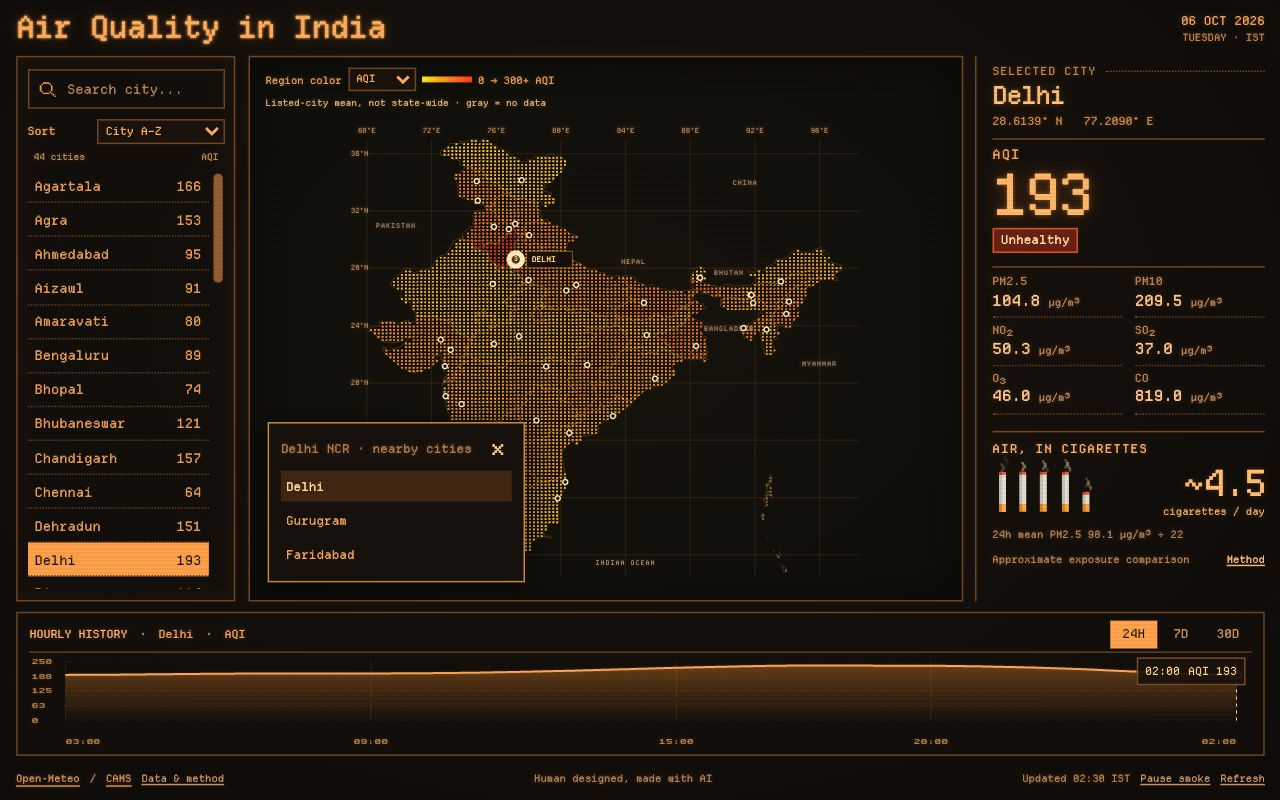
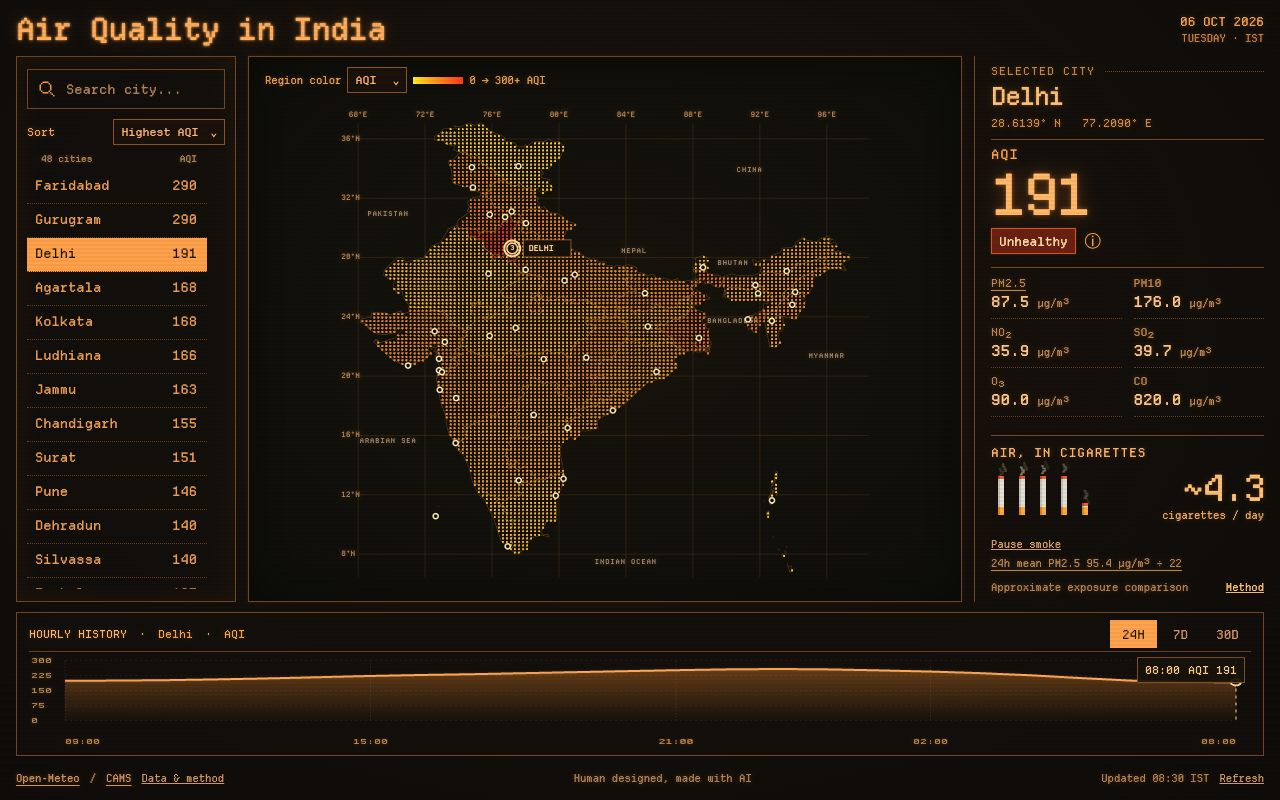
Refine controls, loading animation and union territory coverage

diff --git a/src/App.jsx b/src/App.jsx
@@ -14,6 +14,30 @@ const heatColor = (value, metric) => {
   return `hsl(${56 - 56*t} 100% 55%)`;
 };
 
+function ThemeSelect({ label, value, options, onChange }) {
+  const ref = useRef(null);
+  useEffect(() => {
+    const close = event => { if (!ref.current?.contains(event.target)) ref.current?.removeAttribute('open'); };
+    document.addEventListener('pointerdown', close);
+    return () => document.removeEventListener('pointerdown', close);
+  }, []);
+  return <details ref={ref} className="theme-select" onKeyDown={event => { if(event.key === 'Escape') { ref.current.removeAttribute('open'); ref.current.querySelector('summary').focus(); } }}>
+    <summary aria-label={label + ': ' + options.find(option=>option[0]===value)?.[1]}>{options.find(option=>option[0]===value)?.[1]}<span aria-hidden="true">⌄</span></summary>
+    <div className="theme-options" role="group" aria-label={label}>{options.map(([key,text])=><button key={key} type="button" aria-pressed={value===key} onClick={()=>{onChange(key);ref.current.removeAttribute('open');ref.current.querySelector('summary').focus();}}>{text}</button>)}</div>
+  </details>;
+}
+
+function InitialLoader() {
+  return <div className="initial-loader" role="status" aria-label="Loading air quality"><span className="sr-only">Loading air quality…</span>
+    <svg viewBox="0 0 32 120" aria-hidden="true" shapeRendering="crispEdges">
+      <defs><clipPath id="loader-paper"><rect className="loading-paper" x="10" y="38" width="12" height="64"/></clipPath></defs>
+      <g className="loading-burn"><path className="pixel-smoke" d="M14 -9h4v-5h-4v-5h-4v-5h4v-5h4v-5h-4" fill="none" stroke="#c9ba96" strokeWidth="3"/><rect x="10" width="12" height="4" fill="#ff6e35"/></g>
+      <g clipPath="url(#loader-paper)"><rect x="10" y="38" width="12" height="64" fill="#e5dfc8"/><rect x="10" y="38" width="4" height="64" fill="#bdbda9"/></g>
+      <rect x="10" y="102" width="12" height="16" fill="#ffab45"/><rect x="10" y="102" width="4" height="16" fill="#dc8632"/>
+    </svg>
+  </div>;
+}
+
 function CityMap({ selected, onSelect, summary, metric, onMetric }) {
   const [ncrOpen,setNcrOpen] = useState(false);
   const ncrTrigger = useRef(null), firstNcrChoice = useRef(null);
@@ -42,7 +66,7 @@ function CityMap({ selected, onSelect, summary, metric, onMetric }) {
   });
   const regionMean = id => { const values=regional.get(id); return values?.length ? values.reduce((a,b)=>a+b,0)/values.length : undefined; };
   return <section className="map-panel" aria-label="Map of Indian cities">
-    <div className="map-legend"><label>Region color <select aria-label="Map pollutant" value={metric} onChange={event=>onMetric(event.target.value)}><option value="us_aqi">AQI</option><option value="pm2_5">PM2.5</option></select></label><span className="heat-scale"/><span>{metric==='us_aqi'?'0 → 300+ AQI':'0 → 100+ µg/m³'}</span><small>Listed-city mean, not state-wide · gray = no data</small></div>
+    <div className="map-legend"><div className="metric-control"><span>Region color</span><ThemeSelect label="Map pollutant" value={metric} onChange={onMetric} options={[["us_aqi","AQI"],["pm2_5","PM2.5"]]}/></div><span className="heat-scale"/><span>{metric==='us_aqi'?'0 → 300+ AQI':'0 → 100+ µg/m³'}</span></div>
     <svg className="india-map" viewBox="-12 -14 824 748" role="group" aria-label={'Dot map of India with ' + selected.name + ' selected'}>
       <g className="geo-grid" aria-hidden="true">
         {[68,72,76,80,84,88,92,96].map(lon => { const p=project({lon,lat:38}); return <g key={lon}><line x1={p.x} x2={p.x} y1="22" y2="710"/><text x={p.x} y="12" textAnchor="middle">{lon}°E</text></g>; })}
@@ -120,7 +144,7 @@ function MethodDialog({ onClose, cigarette, returnFocusRef }) {
     {cigarette && <p className="method-window">Window: {formatIST(cigarette.start, {day:'2-digit',month:'short',hour:'2-digit',minute:'2-digit',hour12:false})} – {formatIST(cigarette.end, {day:'2-digit',month:'short',hour:'2-digit',minute:'2-digit',hour12:false})} IST.</p>}
     <a href="https://berkeleyearth.org/air-pollution-and-cigarette-equivalence/" target="_blank" rel="noreferrer">Read Berkeley Earth’s method ↗</a>
     <hr/><p className="source-note">Air data: <a href="https://open-meteo.com/" target="_blank" rel="noreferrer">Open-Meteo</a> / <a href="https://atmosphere.copernicus.eu/" target="_blank" rel="noreferrer">Copernicus CAMS</a>, approximately 45 km model resolution for India. US AQI scale; this is not official CPCB station AQI.</p>
-    <p className="source-note">Regional color is the mean of available listed-city values within each state, not an area-weighted state estimate. Unavailable regions are muted. City dots show every listed location; choose a city from the sidebar.</p><p className="source-note">Map: <a href="https://www.geoboundaries.org/" target="_blank" rel="noreferrer">geoBoundaries</a> / DataMeet / Election Commission of India, CC BY 2.5 IN. Boundaries follow that dataset.</p>
+    <p className="source-note">Values are fetched directly in your browser on opening the site, choosing a city or refreshing. City details are cached for 15 minutes in this tab. GitHub Actions deploys the site; it does not collect air data.</p><p className="source-note">CAMS combines satellite observations with atmospheric simulations to estimate air quality at each location. These are observation-informed model results, rather than direct readings from a local CPCB monitor. <a href="https://atmosphere.copernicus.eu/global-production-system" target="_blank" rel="noreferrer">How CAMS works ↗</a></p><p className="source-note">Regional color is the mean of available listed-city values within each state, not an area-weighted state estimate. Unavailable regions are muted. City dots show every listed location; choose a city from the sidebar.</p><p className="source-note">Map: <a href="https://www.geoboundaries.org/" target="_blank" rel="noreferrer">geoBoundaries</a> / DataMeet / Election Commission of India, CC BY 2.5 IN. Boundaries follow that dataset.</p>
   </dialog>;
 }
 
@@ -175,6 +199,7 @@ export default function App() {
   const [search, setSearch] = useState('');
   const [sort, setSort] = useState('name');
   const [metric, setMetric] = useState('us_aqi');
+  const [initialLoading, setInitialLoading] = useState(true);
   const [summary, setSummary] = useState(null);
   const [summaryError, setSummaryError] = useState('');
   const [detail, setDetail] = useState(null);
@@ -215,6 +240,10 @@ export default function App() {
     return () => controller.abort();
   }, [selected.id, revision]);
 
+  useEffect(() => {
+    if ((summary || summaryError) && (detail || detailError)) setInitialLoading(false);
+  }, [summary, summaryError, detail, detailError]);
+
   const current = detail?.current;
   const selectedSummary = summary?.[selected.id]?.current;
   const aqi = current?.us_aqi ?? selectedSummary?.us_aqi;
@@ -222,6 +251,8 @@ export default function App() {
   const cigarette = cigarettesPerDay(detail?.hourly, current?.time);
   const openMethod = event => { methodTriggerRef.current=event.currentTarget; setMethodOpen(true); };
   const refresh = () => { detailCache.clear(); setRevision(number => number + 1); };
+
+  if (initialLoading) return <InitialLoader/>;
 
   return <div className={"app-shell "+(!smokeOn?"smoke-paused":"")}><a className="skip-link" href="#main-content">Skip to air quality</a>
     <header className="site-header">
@@ -232,7 +263,7 @@ export default function App() {
       <div className="atlas-grid">
         <aside className="city-panel" aria-label="Indian city readings">
           <label className="search-box"><img className="search-symbol" src={import.meta.env.BASE_URL + "icons/search.svg"} alt="" /><span className="sr-only">Search city</span><input value={search} onChange={event => setSearch(event.target.value)} placeholder="Search city..." autoComplete="off" /></label>
-          <label className="sort-control">Sort <select aria-label="Sort cities" value={sort} onChange={event=>setSort(event.target.value)}><option value="name">City A–Z</option><option value="us_aqi">Highest AQI</option><option value="pm2_5">Highest PM2.5</option></select></label>
+          <div className="sort-control"><span>Sort</span><ThemeSelect label="Sort cities" value={sort} onChange={setSort} options={[["name","City A–Z"],["us_aqi","Highest AQI"],["pm2_5","Highest PM2.5"]]}/></div>
           <div className="city-value-label">{matching.length} cities <span>{sort==='pm2_5'?'PM2.5 · µg/m³':'AQI'}</span></div>
           <div className="city-list" role="group" aria-label="Cities">
             {matching.map(city => { const reading = summary?.[city.id]?.current?.[sort==='pm2_5'?'pm2_5':'us_aqi']; return <button key={city.id} type="button" className={'city-row ' + (city.id === selected.id ? 'active' : '')} aria-pressed={city.id === selected.id} onClick={() => setSelectedId(city.id)}><span>{city.name}</span><span>{isReading(reading) ? Math.round(reading) : '—'}</span></button>; })}
@@ -247,13 +278,13 @@ export default function App() {
           <h1 className={selected.name.length>10?"long-city":""}>{selected.name}</h1><p className="coordinates">{selected.lat.toFixed(4)}° N &nbsp; {selected.lon.toFixed(4)}° E</p>
           <div className="rail-rule"/><h2>AQI</h2>
           <div className="aqi-value" aria-label={isReading(aqi) ? 'AQI ' + Math.round(aqi) : 'AQI unavailable'}>{isReading(aqi) ? Math.round(aqi) : '—'}</div>
-          <div className={'aqi-category tone-' + category.tone + (aqi>150?' status-alert':'')}>{category.label}</div>
-          <dl className="pollutants">{[['PM2.5','pm2_5'],['PM10','pm10'],['NO₂','nitrogen_dioxide'],['SO₂','sulphur_dioxide'],['O₃','ozone'],['CO','carbon_monoxide']].map(([label,key])=><div key={key}><dt>{label}</dt><dd><strong>{display(current?.[key],1)}</strong> <span>µg/m³</span></dd></div>)}</dl>
+          <div className="status-row"><div className={'aqi-category tone-' + category.tone + (aqi>150?' status-alert':'')}>{category.label}</div><a className="info-link" href="https://www.airnow.gov/aqi/aqi-basics/" target="_blank" rel="noreferrer" aria-label={'About ' + category.label + ' air quality'} title="AQI categories and health guidance">ⓘ</a></div>
+          <dl className="pollutants">{[['PM2.5','pm2_5'],['PM10','pm10'],['NO₂','nitrogen_dioxide'],['SO₂','sulphur_dioxide'],['O₃','ozone'],['CO','carbon_monoxide']].map(([label,key])=><div key={key}><dt>{key==='pm2_5'?<a href="https://www.epa.gov/pm-pollution/particulate-matter-pm-basics" target="_blank" rel="noreferrer">{label}</a>:label}</dt><dd><strong>{display(current?.[key],1)}</strong> <span>µg/m³</span></dd></div>)}</dl>
           {detailError && <div className="detail-error" role="alert">{detailError} <button type="button" onClick={refresh}>Retry</button></div>}
           {!detail && !detailError && <p className="detail-loading" role="status">Loading detailed readings…</p>}
           <div className="cigarette-section"><h2>AIR, IN CIGARETTES</h2>
             <div className="cigarette-content"><CigaretteArt amount={cigarette ? Number(cigarette.estimate.toFixed(1)) : undefined}/><div className="cigarette-stat"><strong>{cigarette ? '~' + cigarette.estimate.toFixed(1) : '—'}</strong><span>{cigarette ? 'cigarettes / day' : 'Unavailable'}</span></div></div>
-            <p>{cigarette ? '24h mean PM2.5 ' + cigarette.mean.toFixed(1) + ' µg/m³ ÷ 22' : 'Requires 24 complete hourly PM2.5 values'}</p>
+            <button className="smoke-toggle" type="button" onClick={()=>setSmokeOn(value=>!value)} aria-pressed={smokeOn}>{smokeOn?'Pause smoke':'Resume smoke'}</button><p><a href="https://berkeleyearth.org/air-pollution-and-cigarette-equivalence/" target="_blank" rel="noreferrer">{cigarette ? '24h mean PM2.5 ' + cigarette.mean.toFixed(1) + ' µg/m³ ÷ 22' : 'Requires 24 complete hourly PM2.5 values'}</a></p>
             <div className="method-row"><span>Approximate exposure comparison</span><button type="button" onClick={openMethod}>Method</button></div>
           </div>
         </aside>
@@ -262,7 +293,7 @@ export default function App() {
         {detail ? <HistoryChart hourly={detail.hourly} currentTime={current.time} range={range} cityName={selected.name}/> : <div className="chart-empty">{detailError ? 'History unavailable.' : 'Loading modeled history…'}</div>}
       </section>
     </main>
-    <footer className="site-footer"><span><a href="https://open-meteo.com/" target="_blank" rel="noreferrer">Open-Meteo</a> / <a href="https://atmosphere.copernicus.eu/" target="_blank" rel="noreferrer">CAMS</a><button type="button" onClick={openMethod}>Data & method</button></span><span className="ai-credit">Human designed, made with AI</span><div><span>Updated {current?.time?formatIST(current.time,{hour:'2-digit',minute:'2-digit',hour12:false})+' IST':'—'}</span><button type="button" onClick={()=>setSmokeOn(value=>!value)} aria-pressed={smokeOn}>{smokeOn?'Pause smoke':'Resume smoke'}</button><button type="button" onClick={refresh}>Refresh</button></div></footer>
+    <footer className="site-footer"><span><a href="https://open-meteo.com/" target="_blank" rel="noreferrer">Open-Meteo</a> / <a href="https://atmosphere.copernicus.eu/" target="_blank" rel="noreferrer">CAMS</a><button type="button" onClick={openMethod}>Data & method</button></span><span className="ai-credit">Human designed, made with AI</span><div><span>Updated {current?.time?formatIST(current.time,{hour:'2-digit',minute:'2-digit',hour12:false})+' IST':'—'}</span><button type="button" onClick={refresh}>Refresh</button></div></footer>
     {methodOpen && <MethodDialog onClose={() => setMethodOpen(false)} cigarette={cigarette} returnFocusRef={methodTriggerRef}/>}
   </div>;
 }

diff --git a/src/styles.css b/src/styles.css
@@ -47,3 +47,27 @@ select{font:inherit;color:var(--ink);background:#1b1209;border:1px solid var(--r
 .chooser-heading{display:flex;align-items:center;justify-content:space-between;gap:12px;color:#bd8957;margin-bottom:4px}.map-chooser .chooser-close{flex:none;display:grid;place-items:center;width:28px;height:28px;min-height:28px;padding:0;font-size:23px;line-height:1;color:#ffce95}.map-chooser .selected-choice{background:#4a2b12;color:#ffe0a7}
 /* Keep map/chart gestures from selecting their labels. */
 .map-panel,.history-panel{-webkit-user-select:none;user-select:none}
+
+/* Reserve a separate gutter for scrollbars; align headings and row values. */
+.city-list{scrollbar-gutter:stable;padding-right:7px}
+.city-row{padding-left:8px;padding-right:10px}
+.city-row span:last-child{flex:none;min-width:32px;text-align:right}
+.city-value-label{padding-left:8px;padding-right:24px}
+.sort-control,.metric-control{display:flex;align-items:center;justify-content:space-between;gap:6px}
+.map-panel{overflow:visible}.map-legend{z-index:6;flex-wrap:wrap;align-items:center}.map-legend .heat-scale{flex:none}
+.theme-select{position:relative;font-size:11px;min-width:60px;text-shadow:none;color:#ffbd7b}
+.theme-select summary{display:flex;align-items:center;justify-content:space-between;gap:12px;list-style:none;cursor:pointer;background:#1b1007;border:1px solid #96602c;padding:5px 7px;min-height:24px}
+.theme-select summary::-webkit-details-marker{display:none}
+.theme-select summary:focus-visible{outline:2px solid #ffe4a7;outline-offset:2px}
+.theme-options{position:absolute;z-index:20;top:calc(100% + 3px);right:0;min-width:100%;width:max-content;border:1px solid #b8793d;padding:3px;background:#1b1007;box-shadow:0 8px 20px #000b}
+.theme-options button{display:block;width:100%;text-align:left;border:0;background:none;padding:7px 10px;font-size:11px;color:#ffbd7b}
+.theme-options button:hover,.theme-options button:focus-visible,.theme-options button[aria-pressed=true]{background:#ffb45e;color:#211106;text-shadow:none}
+.status-row{display:flex;align-items:center;gap:5px}.info-link{display:grid;place-items:center;flex:none;width:24px;height:24px;text-decoration:none;font-size:16px}
+.smoke-toggle{display:block;background:none;border:0;padding:3px 0 5px;text-decoration:underline;font-size:10px;min-height:24px;color:#dfac78}
+.cigarette-section{margin-top:10px}.cigarette-stack{height:clamp(58px,13cqh,92px)}
+.initial-loader{height:100dvh;display:grid;place-items:center;background:radial-gradient(ellipse,#211409,#0b0704)}
+.initial-loader svg{width:44px;height:165px;overflow:visible;filter:drop-shadow(0 0 5px #ff9d3533)}
+.loading-burn{transform:translateY(38px)}
+@media(prefers-reduced-motion:no-preference){.loading-paper{animation:burn-paper 6s linear infinite}.loading-burn{animation:burn-ember 6s linear infinite}@keyframes burn-paper{0%,10%{y:38px;height:64px}90%,100%{y:102px;height:0px}}@keyframes burn-ember{0%,10%{transform:translateY(38px)}90%,100%{transform:translateY(100px)}}}
+.city-value-label{padding-right:22px}
+.cigarette-stack{height:clamp(50px,11cqh,80px)}

diff --git a/src/air-data.js b/src/air-data.js
@@ -21,7 +21,6 @@ export const CITIES = [
   { id: 'agra', name: 'Agra', lat: 27.1767, lon: 78.0081, state: 'IN-UP' },
   { id: 'bhubaneswar', name: 'Bhubaneswar', lat: 20.2961, lon: 85.8245, state: 'IN-OR' },
   { id: 'guwahati', name: 'Guwahati', lat: 26.1445, lon: 91.7362, state: 'IN-AS' },
-  { id: 'dispur', name: 'Dispur', lat: 26.1433, lon: 91.7898, state: 'IN-AS' },
   { id: 'amaravati', name: 'Amaravati', lat: 16.5131, lon: 80.5165, state: 'IN-AP' },
   { id: 'itanagar', name: 'Itanagar', lat: 27.0844, lon: 93.6053, state: 'IN-AR' },
   { id: 'raipur', name: 'Raipur', lat: 21.2514, lon: 81.6296, state: 'IN-CT' },
@@ -42,6 +41,11 @@ export const CITIES = [
   { id: 'leh', name: 'Leh', lat: 34.1526, lon: 77.5771, state: 'IN-LA' },
   { id: 'puducherry', name: 'Puducherry', lat: 11.9416, lon: 79.8083, state: 'IN-PY' },
   { id: 'gurugram', name: 'Gurugram', lat: 28.4595, lon: 77.0266, state: 'IN-HR' },
+  { id: 'daman', name: 'Daman', lat: 20.3974, lon: 72.8328, state: 'IN-DH' },
+  { id: 'diu', name: 'Diu', lat: 20.7144, lon: 70.9874, state: 'IN-DH' },
+  { id: 'silvassa', name: 'Silvassa', lat: 20.2766, lon: 73.0083, state: 'IN-DH' },
+  { id: 'kavaratti', name: 'Kavaratti', lat: 10.5593, lon: 72.6358, state: 'IN-LD' },
+  { id: 'sri-vijaya-puram', name: 'Sri Vijaya Puram', lat: 11.6234, lon: 92.7265, state: 'IN-AN' },
   { id: 'faridabad', name: 'Faridabad', lat: 28.4089, lon: 77.3178, state: 'IN-HR' },
 ];
 
@@ -75,7 +79,7 @@ export function buildDetailURL(city) {
 export async function requestAir(url, signal) {
   let response;
   try {
-    response = await fetch(url, { signal });
+    response = await fetch(url, { signal: AbortSignal.any([...(signal ? [signal] : []), AbortSignal.timeout(20000)]) });
   } catch (error) {
     if (error.name === 'AbortError') throw error;
     throw new Error('Could not reach Open-Meteo. Check your connection and try again.');

diff --git a/README.md b/README.md
@@ -1,6 +1,6 @@
 # Air Quality in India
 
-A live air-quality dashboard for 44 Indian cities, including major cities and state capitals. Built with React and Vite, with a Departure Mono interface inspired by [AmberConsole](https://github.com/DutchDiederik/AmberConsole).
+A live air-quality dashboard for 48 Indian cities, including major cities and state capitals. Built with React and Vite, with a Departure Mono interface inspired by [AmberConsole](https://github.com/DutchDiederik/AmberConsole).
 
 **[Open the live app →](https://chandanmahapatra.github.io/live-aqi-india/)**
 
@@ -15,19 +15,20 @@ Human designed, made with AI: the initial design exploration used GPT Image; the
 - Switch regional colors between AQI and PM2.5. Yellow-to-red colors represent the mean of available **listed-city** values in each region, not a statewide measurement. Gray means no available city data.
 - View AQI status and PM2.5, PM10, NO₂, SO₂, O₃ and CO concentrations.
 - Inspect hourly AQI history over 24 hours, 7 days or 30 days, with pointer and keyboard readouts.
+- Amber dropdown menus, scrollbar-safe city value columns, AQI health information and linked PM2.5/cigarette sources.
 - See vertical pixel cigarettes with proportional fractions and animated smoke as a rough pollution exposure analogy.
-- Filled unhealthy badges flash slowly above AQI 150. Reduced-motion preferences disable animations; smoke also has a pause control.
+- Filled unhealthy badges flash slowly above AQI 150. Reduced-motion preferences disable animations; smoke also has a pause control beneath the cigarette illustration.
 - Desktop layout fits the viewport, with scrolling in the city list. Smaller screens reflow vertically.
 
 ## Data and interpretation
 
 The browser calls the [Open-Meteo Air Quality API](https://open-meteo.com/en/docs/air-quality-api) without an API key. India values come from **Copernicus CAMS global atmospheric models**, at approximately 45 km resolution. These are model estimates, not direct CPCB station readings. AQI uses the **US EPA scale**, regardless of the city's location. Times are displayed in India Standard Time.
 
-The map summarizes the curated city list. Some regions have one listed city; others have several or none. It is not a continuous pollution heatmap, an area-weighted average, or an official political map. Haryana's region uses Gurugram and Faridabad values. Chandigarh, the shared capital of Haryana and Punjab, remains a separate union territory in the geography. The 44-city list includes Bhubaneswar, Guwahati, Dispur and Pune.
+The map summarizes the curated city list. Some regions have one listed city; others have several or none. It is not a continuous pollution heatmap, an area-weighted average, or an official political map. Haryana's region uses Gurugram and Faridabad values. Chandigarh, the shared capital of Haryana and Punjab, remains a separate union territory in the geography. The 48-city list includes Bhubaneswar, Guwahati and Pune, plus Daman, Diu, Silvassa, Kavaratti and Sri Vijaya Puram, covering all eight union territories.
 
 The cigarette estimate averages the last 24 completed, contiguous hourly PM2.5 values and divides by **22 µg/m³**, following [Berkeley Earth's approximate equivalence](https://berkeleyearth.org/air-pollution-and-cigarette-equivalence/). Missing or stale windows show unavailable. It is a population-level exposure illustration—not cigarettes actually smoked, personal dose, or an individual health prediction. The Data & method dialog explains the calculation and source.
 
-Selected-city results are cached for 15 minutes; Refresh fetches again. The hosted free API is for **noncommercial use** within [Open-Meteo's published limits](https://open-meteo.com/en/terms). Multi-location and historical requests may count as multiple calls. There is no backend or secret API key.
+Air data is fetched live in the browser, not by GitHub Actions or a daily data job. Initial loading shows a single pixel cigarette burning down to its filter (static with reduced motion). The dashboard remains usable if a request fails. Selected-city results are cached in memory for 15 minutes; Refresh fetches again. The hosted free API is for **noncommercial use** within [Open-Meteo's published limits](https://open-meteo.com/en/terms). Multi-location and historical requests may count as multiple calls. There is no backend or secret API key.
 
 ## Development
 

diff --git a/AGENTS.md b/AGENTS.md
@@ -50,3 +50,9 @@ Build app UI in `src/`. Keep `.openai/hosting.json`, `worker/index.js`, `scripts
 - Footer credit wording: Human designed, made with AI.
 
 - Disable text selection on map and history-chart labels/controls so double clicks and click-drag interactions do not highlight text.
+
+- Reserve a city-list scrollbar gutter; align column header and city values with extra right inset. Move smoke pause/resume beneath the cigarette illustration.
+- Initial client-side data fetch shows only one centered SVG cigarette burning down to its filter, with smoke; reduced motion uses a static icon. Errors must reveal the dashboard rather than trap the loader.
+- Use amber themed disclosure dropdowns instead of native OS-highlighted menus. Keep keyboard support and Escape/outside-click dismissal.
+- Remove Dispur, keep Guwahati; add Daman, Diu, Silvassa, Kavaratti and Sri Vijaya Puram to cover the remaining union territories.
+- Keep map legend gradient inline with the metric control; move listed-city/state-average caveat to Data & method. Add category info link, PM2.5 explanation link and underlined cigarette calculation source.
